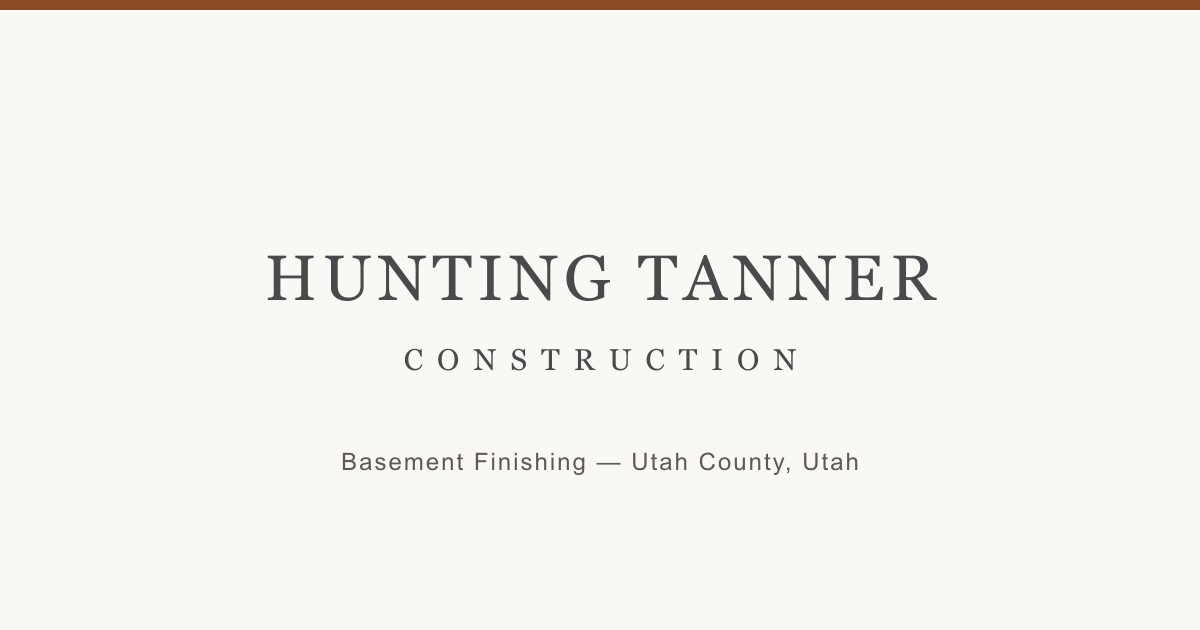
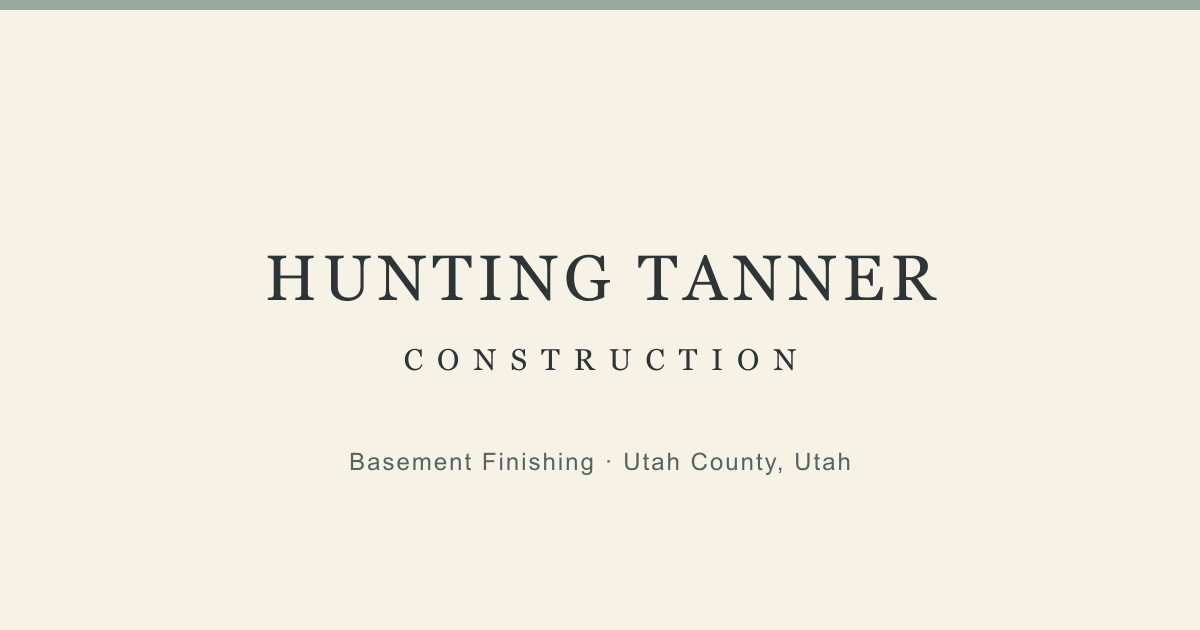
Rebrand to Soot / Cream / Mist / Eucalyptus palette
New four-color palette applied across all tokens, dark sections, trust
strip, footer accents, form borders, favicons, OG image, theme-color,
manifest, dev banner, and the endpoint fallback page. Buttons and links
use a deepened eucalyptus (#4c5f53) for WCAG contrast; true #98aa9d
carries decorative and on-dark accents.

diff --git a/src/styles/global.css b/src/styles/global.css
@@ -1,24 +1,28 @@
 /* ============================================================
    Hunting Tanner Construction — design system
-   Derived from brand wordmark (charcoal #4a4a4d serif).
+   Brand palette (2026-07): Soot #2D3536 · Cream #EDE6D1 ·
+   Mist #D2D7D3 · Eucalyptus #98AA9D. Interactive accents use a
+   deepened eucalyptus so text on them passes WCAG contrast; the
+   true #98AA9D carries decorative and on-dark accents.
    All colors are custom properties — change them here only.
    ============================================================ */
 
 :root {
   /* ---- Color tokens ---- */
-  --color-bg: #faf8f4;            /* warm off-white */
+  --color-bg: #f6f2e6;            /* light tint of Cream */
   --color-surface: #ffffff;
-  --color-surface-alt: #f2eee7;   /* warm sand for alternating sections */
-  --color-ink: #26262a;           /* near-black text */
-  --color-ink-soft: #4a4a4d;      /* brand charcoal (logo) */
-  --color-muted: #5d5a55;         /* secondary text — AA on bg */
-  --color-line: #e3ddd2;          /* hairline borders */
-  --color-accent: #8a4a22;        /* deep copper — CTAs, links */
-  --color-accent-hover: #6f3a17;
-  --color-accent-soft: #f4e8dd;   /* copper tint backgrounds */
-  --color-dark: #2b2b2f;          /* dark section background */
-  --color-dark-text: #eceae6;
-  --color-dark-muted: #b9b6b0;
+  --color-surface-alt: #ede6d1;   /* Cream — alternating sections */
+  --color-ink: #2d3536;           /* Soot — primary text */
+  --color-ink-soft: #3e4a4a;      /* softened soot (wordmark) */
+  --color-muted: #56635e;         /* secondary text — AA on bg/cream */
+  --color-line: #d2d7d3;          /* Mist — hairline borders */
+  --color-accent: #4c5f53;        /* deep Eucalyptus — CTAs, links */
+  --color-accent-hover: #3a4b40;
+  --color-accent-soft: #dfe7e0;   /* eucalyptus tint backgrounds */
+  --color-accent-bright: #98aa9d; /* Eucalyptus — decorative + on-dark */
+  --color-dark: #2d3536;          /* Soot — dark sections */
+  --color-dark-text: #e9ede8;
+  --color-dark-muted: #d2d7d3;    /* Mist on Soot */
   --color-focus: #1a63b0;         /* focus ring — distinct from accent */
   --color-error: #a2361f;
   --color-success: #2e6b3f;
@@ -53,11 +57,16 @@
   --container-narrow: 46rem;
   --radius: 10px;
   --radius-lg: 16px;
-  --shadow-sm: 0 1px 3px rgb(38 38 42 / 0.08);
-  --shadow-md: 0 6px 24px -8px rgb(38 38 42 / 0.16);
+  --shadow-sm: 0 1px 3px rgb(45 53 54 / 0.08);
+  --shadow-md: 0 6px 24px -8px rgb(45 53 54 / 0.16);
 
   /* ---- Header height (used by scroll offsets & sticky CTA) ---- */
   --header-h: 4.25rem;
+}
+
+/* Form input borders — Mist darkened for visible edges */
+:root {
+  --color-input-border: #aeb6b1;
 }
 
 /* ============ Base ============ */
@@ -220,7 +229,7 @@ strong {
   margin-bottom: var(--space-3);
 }
 .section--dark .eyebrow {
-  color: #d9a578;
+  color: var(--color-accent-bright);
 }
 
 .lede {
@@ -362,7 +371,7 @@ strong {
   font: inherit;
   color: var(--color-ink);
   background: var(--color-surface);
-  border: 1px solid #b9b3a8;
+  border: 1px solid var(--color-input-border);
   border-radius: var(--radius);
   padding: 0.7rem 0.85rem;
   min-height: 48px;

diff --git a/src/pages/api/contact.ts b/src/pages/api/contact.ts
@@ -113,16 +113,16 @@ function errorPage(): string {
 <meta name="robots" content="noindex">
 <title>We couldn't send your request | Hunting Tanner Construction</title>
 <style>
-  body { margin:0; background:#faf8f4; color:#26262a;
+  body { margin:0; background:#f6f2e6; color:#2d3536;
     font-family:-apple-system,BlinkMacSystemFont,"Segoe UI",Roboto,Arial,sans-serif;
     line-height:1.65; display:flex; align-items:center; justify-content:center;
     min-height:100vh; padding:1.5rem; }
-  .card { max-width:34rem; background:#fff; border:1px solid #e3ddd2;
-    border-radius:16px; padding:2rem; box-shadow:0 6px 24px -8px rgb(38 38 42 / .16); }
+  .card { max-width:34rem; background:#fff; border:1px solid #d2d7d3;
+    border-radius:16px; padding:2rem; box-shadow:0 6px 24px -8px rgb(45 53 54 / .16); }
   h1 { font-family:Georgia,serif; font-size:1.6rem; margin:0 0 1rem; }
-  a.btn { display:inline-block; background:#8a4a22; color:#fff; text-decoration:none;
+  a.btn { display:inline-block; background:#4c5f53; color:#fff; text-decoration:none;
     font-weight:600; padding:.75rem 1.5rem; border-radius:10px; margin-top:.5rem; }
-  a.plain { color:#8a4a22; }
+  a.plain { color:#4c5f53; }
   p { margin:0 0 1rem; }
 </style>
 </head>
